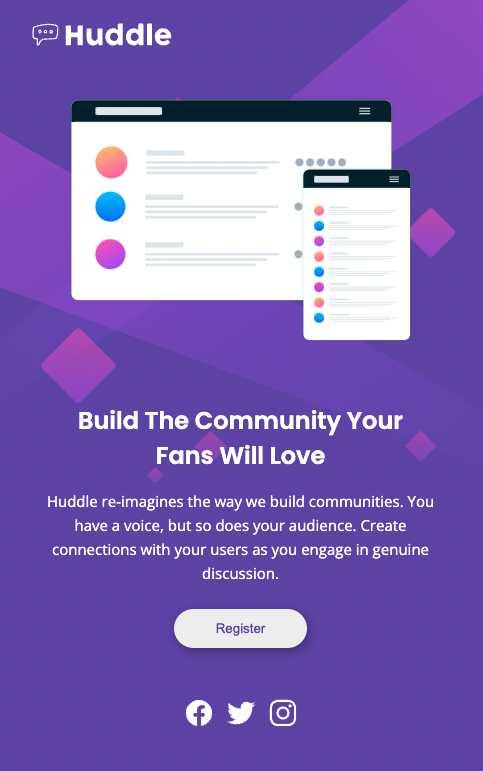
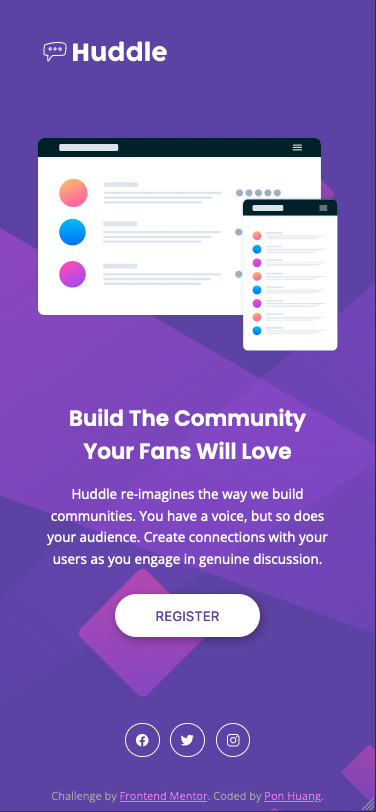
optimize width

diff --git a/sass/_layout.scss b/sass/_layout.scss
@@ -14,13 +14,14 @@ header {
   // justify-content: space-between;
   align-items: center;
   min-height: 60vh;
+  // min-height insures this section has minimum height to straight mobile viewport and desktop, also allows it expand for arrow device.
 }
 
 .hero {
   &__img {
-    width: Min(90%, 60rem);
+    width: Min(95%, 60rem);
     img {
-      width: 90%;
+      width: 100%;
     }
   }
 
@@ -144,6 +145,6 @@ footer {
   footer {
     flex-direction: column-reverse;
     gap: 3rem;
-    width: 100vw;
+    max-width: 100%;
   }
 }

diff --git a/css/style.css b/css/style.css
@@ -35,12 +35,12 @@ header {
   padding: 3.5rem 5rem;
   display: flex;
   align-items: center;
-  height: 60vh; }
+  min-height: 60vh; }
 
 .hero__img {
-  width: Min(90%, 60rem); }
+  width: Min(95%, 60rem); }
   .hero__img img {
-    width: 90%; }
+    width: 100%; }
 
 .hero__info {
   color: white;
@@ -128,4 +128,4 @@ footer {
   footer {
     flex-direction: column-reverse;
     gap: 3rem;
-    width: 100vw; } }
+    max-width: 100%; } }

diff --git a/README.md b/README.md
@@ -70,3 +70,6 @@ Pon Huang
 - [Art Blog](https://une722.wordpress.com)
 
 ## Acknowledgments
+
+Thank Ahmed, he gave me a lot of advice to optimize my solution.
+[Ahmed Mahmoud Abdelwahab](https://www.frontendmentor.io/profile/Ahmed96Mah)
